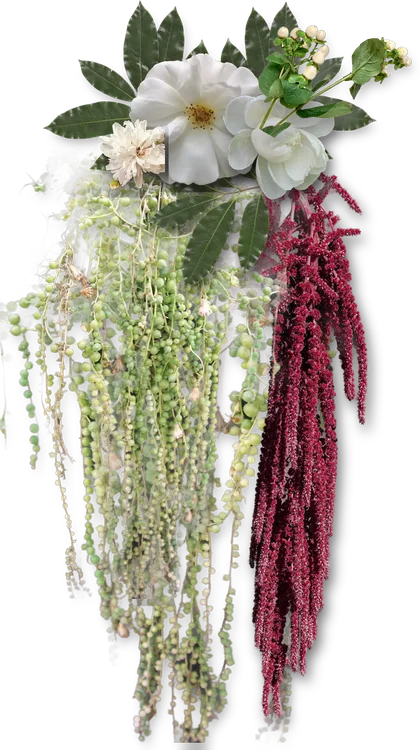
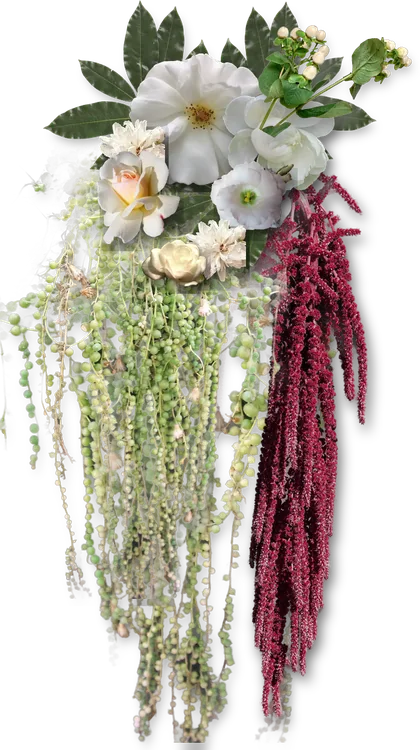
Beludru: kembalikan rangkaian bunga lama, isi lebih penuh dan ukuran lebih kecil

Changed region(s): [[0.2167, 0.184, 0.7119, 0.3987]]

diff --git a/beludru.html b/beludru.html
@@ -10,7 +10,7 @@
 <meta name="theme-color" content="#0f2219">
 <title>Josua &amp; Larasati</title>
 <script>if("scrollRestoration" in history)history.scrollRestoration="manual";</script>
-<link rel="preload" as="image" href="aset/bunga/bunga-sudut.webp">
+<link rel="preload" as="image" href="aset/bunga/bunga-besar.webp">
 <link rel="preload" as="image" href="aset/bunga/bunga-lantai.webp">
 <link rel="preconnect" href="https://fonts.googleapis.com">
 <link rel="stylesheet" href="https://fonts.googleapis.com/css2?family=Cormorant+Garamond:ital,wght@0,400;0,500;0,600;0,700;1,400&family=Monsieur+La+Doulaise&family=Pinyon+Script&display=swap">
@@ -118,15 +118,15 @@ html.locked,html.locked body{overflow:hidden;height:100%;overscroll-behavior:non
 .doily .q b{font-family:var(--f-script);font-weight:400;font-size:2.1em;line-height:1;color:#5a0f1b}
 .doily .q small{font-size:.85em;letter-spacing:.14em;color:#6b5a4c}
 .doily .tassel{position:absolute;left:50%;bottom:calc(var(--w) * -.2);width:calc(var(--w) * .1);margin-left:calc(var(--w) * -.05);transform-origin:50% 0;animation:sway 3.5s ease-in-out infinite}
-.env .fl1{left:calc(var(--w) * -.07);top:calc(var(--w) * -.17);width:calc(var(--w) * .5);z-index:6}
-.env .fl2{right:calc(var(--w) * -.07);top:calc(var(--w) * .33);width:calc(var(--w) * .4);z-index:6}
+.env .fl1{left:calc(var(--w) * -.05);top:calc(var(--w) * -.08);width:calc(var(--w) * .33);z-index:6}
+.env .fl2{right:calc(var(--w) * -.05);top:calc(var(--w) * .26);width:calc(var(--w) * .26);z-index:6}
 .cv-hint{position:absolute;left:-10%;right:-10%;top:calc(var(--w) * 1.5);display:grid;gap:calc(var(--w) * .035);justify-items:center;transition:opacity .6s;animation:fadeUp 1.2s 1s var(--ease) backwards}
 .cv-hint .click{font-size:calc(var(--w) * .038);letter-spacing:.24em;margin-right:-.24em;font-weight:500}
 .cv-hint .guest{font-size:calc(var(--w) * .042);line-height:1.35;color:#d9d2c3}
 .cv-hint .guest strong{display:block;font-weight:600;font-size:1.3em;color:var(--cream);letter-spacing:.03em}
 .cover .corner{position:absolute;bottom:3px;width:clamp(92px,26%,140px);z-index:3}
 .cover .corner.l{left:6px}.cover .corner.r{right:6px}
-.cover .corner img{-webkit-mask-image:linear-gradient(180deg,#000 88%,transparent 100%);mask-image:linear-gradient(180deg,#000 88%,transparent 100%)}
+.cover .corner img{-webkit-mask-image:linear-gradient(180deg,#000 80%,transparent 99%);mask-image:linear-gradient(180deg,#000 80%,transparent 99%)}
 .scroll-hint{position:absolute;left:0;right:0;bottom:1.5%;z-index:7;text-shadow:0 1px 6px #000;display:grid;justify-items:center;gap:6px;font-size:.72rem;letter-spacing:.3em;opacity:0;transition:opacity 1s .4s;pointer-events:none}
 .scroll-hint::after{content:"";width:1px;height:30px;background:linear-gradient(var(--cream),transparent);animation:drip 1.8s ease-in-out infinite}
 @keyframes drip{0%{transform:scaleY(0);transform-origin:top}50%{transform:scaleY(1);transform-origin:top}51%{transform-origin:bottom}100%{transform:scaleY(0);transform-origin:bottom}}
@@ -273,8 +273,8 @@ textarea{min-height:90px;resize:vertical}
 .closing .env2{position:relative;width:100%;aspect-ratio:300/170;margin-top:-24%;z-index:3;filter:drop-shadow(0 20px 24px rgba(0,0,0,.6))}
 .closing .env2 svg{width:100%;height:100%}
 .closing .tassel2{position:absolute;left:50%;top:66%;width:11%;margin-left:-5.5%;z-index:2;transform-origin:50% 0;animation:sway 3.5s ease-in-out infinite}
-.closing .fl3{right:-4%;bottom:-8%;width:42%}
-.closing .hang{top:6px;width:32%}
+.closing .fl3{right:-6%;bottom:-4%;width:38%}
+.closing .hang{top:6px;width:26%}
 .closing .hang.l{left:6px}.closing .hang.r{right:6px}
 footer{padding:20px 16px 26px;text-align:center;font-size:.8rem;letter-spacing:.22em;color:#d9c9b5;background:var(--burg-d)}
 .credit{margin:10px auto 0;max-width:420px;letter-spacing:0;font-size:.72rem;color:#b9a896}
@@ -314,11 +314,11 @@ main>section+section:not(.velvet+.velvet):not(.suede+.suede)>.seam{display:block
 .seam-b{position:absolute;left:0;right:0;bottom:0;height:40px;pointer-events:none;background:linear-gradient(0deg,rgba(0,0,0,.35),transparent)}
 
 /* bunga tidak menutupi teks */
-#mempelai{padding-bottom:calc(clamp(110px,34vw,170px) * .57 + 24px)}
+#mempelai{padding-bottom:calc(clamp(70px,18vw,92px) * 1.34 + 18px)}
 #hadiah .title,#hadiah .gift-ico{position:relative;z-index:4}
 #hadiah{padding-top:64px!important}
-.cover .corner{width:min(40%,21svh,200px)}
-@media (max-height:700px){.cover .corner{width:min(36%,16svh,180px)}}
+.cover .corner{width:min(clamp(56px,20%,110px),12svh)}
+@media (max-height:720px){.cover .corner{width:min(clamp(48px,15%,80px),9svh)}}
 .cover .cv-hint{z-index:4}
 </style>
 </head>
@@ -350,8 +350,8 @@ main>section+section:not(.velvet+.velvet):not(.suede+.suede)>.seam{display:block
       <div class="front" data-svg="envFront"></div>
       <div class="flap" data-svg="flap"></div>
       <div class="seal" data-svg="seal"></div>
-      <div class="floral fl1 sway" data-floral="bunga-sudut"></div>
-      <div class="floral fl2 sway b" data-floral="bunga-sudut-bawah"></div>
+      <div class="floral fl1 sway" data-floral="bunga-besar"></div>
+      <div class="floral fl2 sway b" data-floral="bunga-kecil"></div>
     </button>
 
     <div class="cv-hint">
@@ -388,13 +388,13 @@ main>section+section:not(.velvet+.velvet):not(.suede+.suede)>.seam{display:block
       </div>
     </div>
   </div>
-  <div class="floral sway" data-floral="bunga-lantai" style="left:6px;bottom:8px;width:clamp(110px,34%,170px)"></div>
+  <div class="floral sway" data-floral="bunga-kecil" style="left:6px;bottom:6px;width:clamp(70px,18%,92px)"></div>
 </section>
 
 <!-- ===== SAVE THE DATE ===== -->
 <section class="suede std" id="tanggal" data-sparks="6">
-  <div class="floral sway" data-floral="bunga-juntai" style="right:6px;top:6px;width:25%"></div>
-  <div class="floral flip sway b" data-floral="bunga-juntai" style="left:6px;top:6px;width:23%"></div>
+  <div class="floral sway" data-floral="bunga-juntai" style="right:6px;top:6px;width:20%"></div>
+  <div class="floral flip sway b" data-floral="bunga-juntai" style="left:6px;top:6px;width:19%"></div>
   <div class="big rv">
     <span class="a">Save</span>
     <span class="b">the</span>
@@ -492,8 +492,8 @@ main>section+section:not(.velvet+.velvet):not(.suede+.suede)>.seam{display:block
 
 <!-- ===== HADIAH ===== -->
 <section class="velvet" id="hadiah" data-sparks="6" style="padding-top:30px">
-  <div class="floral flip sway" data-floral="bunga-juntai" style="left:6px;top:6px;width:16%"></div>
-  <div class="floral sway b" data-floral="bunga-juntai" style="right:6px;top:6px;width:16%"></div>
+  <div class="floral flip sway" data-floral="bunga-juntai" style="left:6px;top:6px;width:14%"></div>
+  <div class="floral sway b" data-floral="bunga-juntai" style="right:6px;top:6px;width:14%"></div>
   <h2 class="title rv">Wedding Gift</h2>
   <div class="gift-ico rv" data-svg="gift"></div>
   <p class="lead rv">Doa restu dan kehadiran Anda merupakan karunia yang sangat berarti bagi kami.</p>
@@ -564,13 +564,13 @@ main>section+section:not(.velvet+.velvet):not(.suede+.suede)>.seam{display:block
     </div>
     <div class="tassel2" data-svg="tassel"></div>
     <div class="env2" data-svg="envOpen"></div>
-    <div class="floral fl3 sway" data-floral="bunga-sudut-bawah"></div>
+    <div class="floral fl3 sway" data-floral="bunga-kecil"></div>
   </div>
 </section>
 </main>
 <footer>JOSUA &amp; LARASATI · 12.06.2027
   <details class="credit"><summary>Kredit foto</summary>
-    <p>Rangkaian bunga disusun dari foto Wikimedia Commons; hasil susunannya berlisensi <a href="https://creativecommons.org/licenses/by-sa/4.0/" target="_blank" rel="noopener">CC BY-SA 4.0</a>. Foto oleh: Leonora Enking (CC BY-SA 2.0), Balise42 (CC BY-SA 4.0), Tubifex (CC BY-SA 3.0), Nesnad (CC BY 4.0), Bff (CC BY-SA 3.0), Rabe! &amp; Fmi2012 (CC BY-SA 3.0), B.navez (CC BY-SA 3.0), Filo gèn' (CC BY-SA 4.0), SzinNapalm (CC BY 4.0), Downtowngal (CC BY-SA 4.0), ChickenFreak &amp; Dusan Bicanski (domain publik). Rincian: <a href="aset/bunga/KREDIT.md" target="_blank" rel="noopener">KREDIT.md</a>.</p>
+    <p>Rangkaian bunga disusun dari foto Wikimedia Commons; hasil susunannya berlisensi <a href="https://creativecommons.org/licenses/by-sa/4.0/" target="_blank" rel="noopener">CC BY-SA 4.0</a>. Foto oleh: Leonora Enking (CC BY-SA 2.0), Balise42 (CC BY-SA 4.0), Tubifex (CC BY-SA 3.0), Nesnad (CC BY 4.0), Bff (CC BY-SA 3.0), Rabe! &amp; Fmi2012 (CC BY-SA 3.0), B.navez (CC BY-SA 3.0), Amada44 (CC BY 3.0), Filo gèn' (CC BY-SA 4.0), SzinNapalm (CC BY 4.0), Downtowngal (CC BY-SA 4.0), ChickenFreak &amp; Dusan Bicanski (domain publik). Rincian: <a href="aset/bunga/KREDIT.md" target="_blank" rel="noopener">KREDIT.md</a>.</p>
     <p>Foto galeri &amp; kain: Drew Coffman, Petr Ovralov, Paul García, Anne Edgar, Wu Jianxiong (Unsplash, CC0); Astari28 (CC BY 4.0); Rijksmuseum &amp; Honolulu Museum of Art (CC0). Rincian: <a href="aset/foto/KREDIT.md" target="_blank" rel="noopener">KREDIT.md</a>.</p>
   </details>
 </footer>

diff --git a/aset/bunga/KREDIT.md b/aset/bunga/KREDIT.md
@@ -1,6 +1,6 @@
 # Kredit foto bunga
 
-Gambar `bunga-sudut.webp`, `bunga-sudut-bawah.webp`, `bunga-juntai.webp`, dan `bunga-lantai.webp` adalah rangkaian yang disusun dari foto-foto di bawah ini (latar dihapus, warna sedikit disesuaikan, lalu digabung). Hasil susunan ini dibagikan dengan lisensi [CC BY-SA 4.0](https://creativecommons.org/licenses/by-sa/4.0/).
+Gambar `bunga-besar.webp`, `bunga-kecil.webp`, `bunga-juntai.webp`, dan `bunga-lantai.webp` adalah rangkaian yang disusun dari foto-foto di bawah ini (latar dihapus, warna sedikit disesuaikan, lalu digabung). Hasil susunan ini dibagikan dengan lisensi [CC BY-SA 4.0](https://creativecommons.org/licenses/by-sa/4.0/).
 
 | Foto | Pembuat | Lisensi |
 |---|---|---|
@@ -11,6 +11,7 @@ Gambar `bunga-sudut.webp`, `bunga-sudut-bawah.webp`, `bunga-juntai.webp`, dan `b
 | [Rose20090913 36](https://commons.wikimedia.org/wiki/File:Rose20090913_36.png) | Bff | CC BY-SA 3.0 |
 | [Pear leaf](https://commons.wikimedia.org/wiki/File:Pear_LeafTransparent.png) | Rabe!, Fmi2012 | CC BY-SA 3.0 |
 | [Litchi chinensis leaf](https://commons.wikimedia.org/wiki/File:Litchi_chinensis_leaf.png) | B.navez | CC BY-SA 3.0 |
+| [Zantedeschia aethiopica](https://commons.wikimedia.org/wiki/File:Zantedeschia_aethiopica_002.png) | Amada44 | CC BY 3.0 |
 | [Blanche Rose on black background](https://commons.wikimedia.org/wiki/File:Blanche_Rose_on_black_background.jpg) | Filo gèn' | CC BY-SA 4.0 |
 | [Rose in the dark](https://commons.wikimedia.org/wiki/File:Rose_in_the_dark.jpg) | SzinNapalm | CC BY 4.0 |
 | [White Peony Blossom](https://commons.wikimedia.org/wiki/File:White_Peony_Blossom.jpg) | ChickenFreak | Domain publik |
